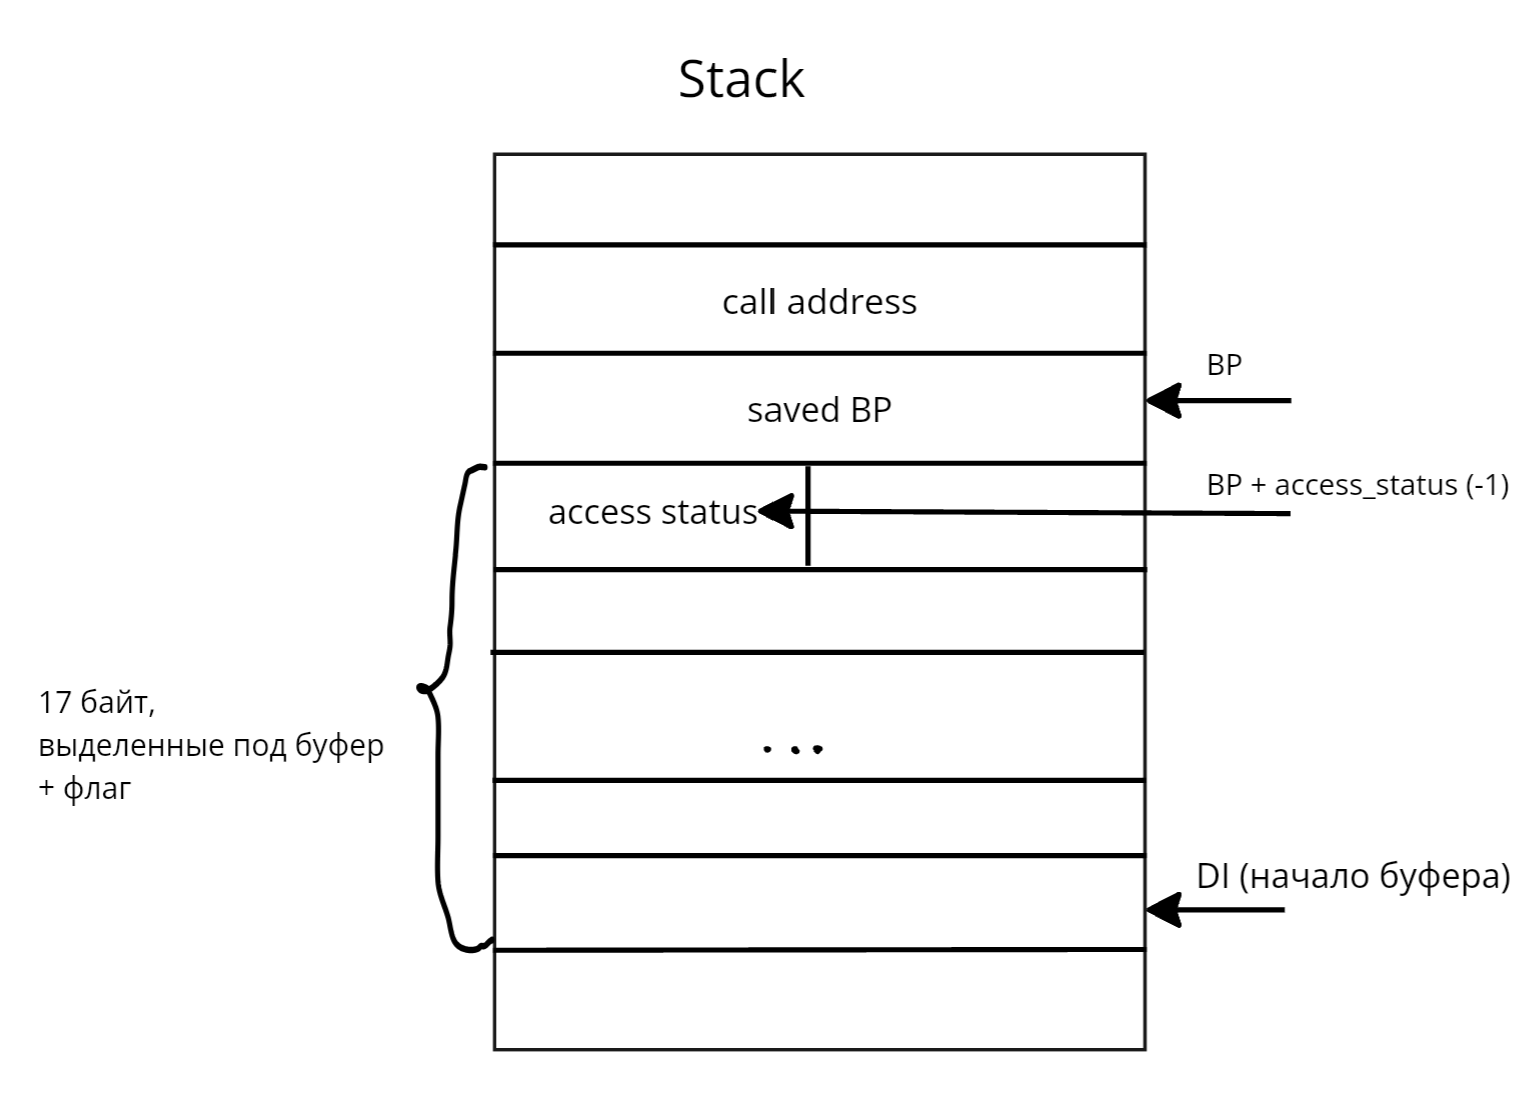
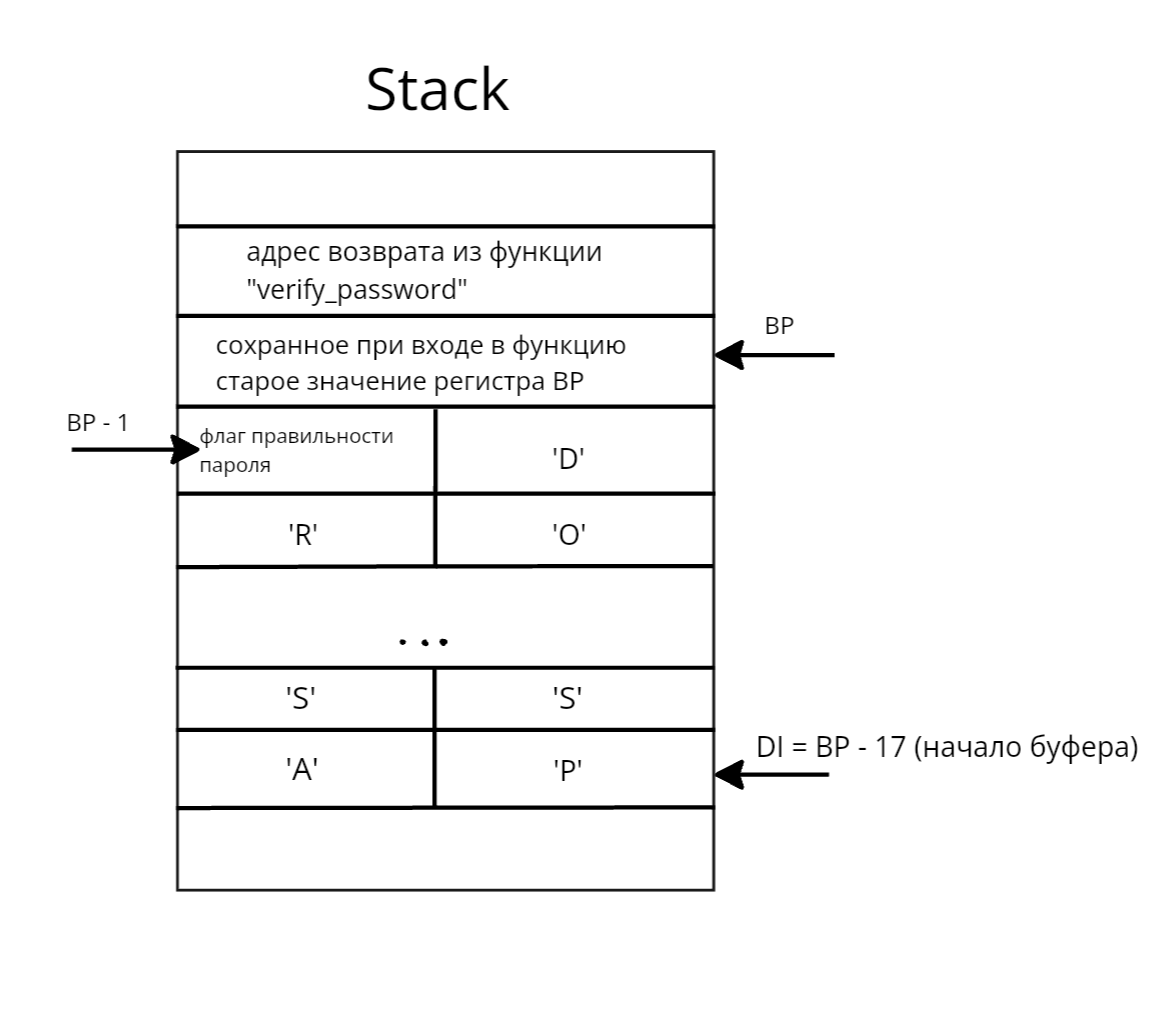
upd readme

Changed region(s): [[0.031, 0.0614, 0.9914, 0.9524], [0.7435, 0.3072, 0.8365, 0.3994]]

diff --git a/README.md b/README.md
@@ -73,18 +73,23 @@
 
 Данная функция использует стек для хранения введенной строки. Она выделяет 17 байт в стеке и копирует буфер из памяти
 ### **Ключевой момент**
-В стеке выделяется память размером 11h = 17d байт, однако копируется столько, сколько фактически было записано в буфер (может быть больше 17-и байт). Изначальный размер буфера 50 байт, а выделено в стеке лишь 17 байт!<br>
+В стеке выделяется память размером 11h = 17d байт (1 байт для флага верности пароля и 16 байт для хранения строки с паролем), однако копируется столько, сколько фактически было записано в буфер (может быть больше 16-и байт). Изначальный размер буфера 50 байт, а выделено в стеке под строку лишь 16 байт!<br>
 
-Это и является уязвимостью! Таким образом, мы сможем подать на ввод больше чем 17 байт и, переполнив место в стеке, отведенное под хранение строки, поменять важные поля в стеке
+Это и является уязвимостью! Таким образом, мы сможем подать на ввод больше чем 16 байт и, переполнив место в стеке, отведенное под хранение строки, поменять важные поля в стеке
 
 ## 1-я уязвимость
-Флаг правильности пароля (я назвал его access_status) хранится в стеке, сразу после 16 байт буфера, после чего копируется в регистр AL и проверяется в теле программы. <br>
+Флаг правильности пароля (я назвал его access_status) хранится в стеке сразу после 16 байт буфера, после чего копируется в регистр AL и проверяется в теле программы. <br>
 
-<!-- > -->
-<!--
+На рисунке представлен пример содержимого стека во время выполнения функции verify_password:<br>
+1. Адрес возврата из функции
+2. Сохраненное значение регистра BP до входа в функцию
+3. Флаг правильности пароля размером в 1 байт
+4. Затем идут 16 байт, выделенные в стеке под хранение строки с введенным паролем.
+>В качестве примера был введен пароль "PASSWORDPASSWORD" (он полностью занимает выделенное под него место, так как длина пароля 16 букв). BP-17 указывает на начало этой строки. При этом ее хранение происходит вверх по стеку. Таким образом сверху стека мы увидим байты, отвечающие буквам 'D', 'R', 'O' и так далее до 'S', 'S, 'A', 'P' снизу
+
 <p align="center">
     <img src="assets/image-5.png" width="75%">
-</p> -->
+</p>
 
 Таким образом, подав на ввод 16 мусорных байт и ненулевой байт после, я перетру изначальное значение флага access_status в стеке, и программа будет считать, что пароль верный
 
